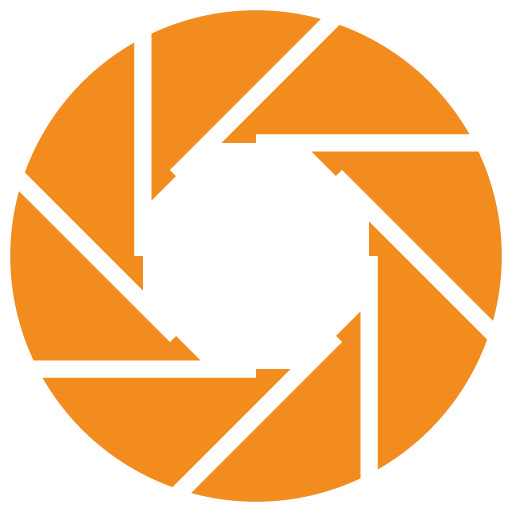
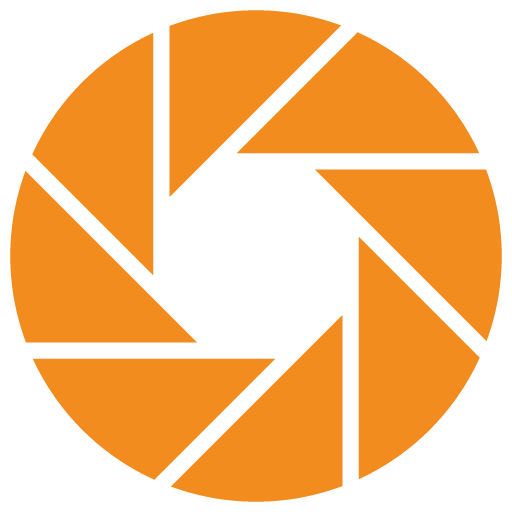
site: the clean aperture mark
The old mark cut each blade with two overlapping triangles under an
even-odd fill, so every overlap punched colour back in. Now an octagon
and eight square-ended cuts under a mask, matching the 1.4.4 video.
Icons and the repo page regenerated from tools/mklogo.py.

Changed region(s): [[0.0312, 0.0312, 0.9688, 0.9688]]

diff --git a/tools/mklogo.py b/tools/mklogo.py
@@ -48,9 +48,11 @@ AMBER = (0xF2, 0x8C, 0x1E)
 DARK = (0x0E, 0x0E, 0x0E)
 
 BLADES = 8
-# Fractions of the disc radius.
-R_IN = 0.46             # the opening: large, and the thing every wrong version shrinks
-SLASH = 0.035           # half-width of the cut between blades
+# Fractions of the disc radius. The opening is a regular octagon whose
+# vertices sit at 20/48 of the radius, which puts its inradius here.
+R_VERT = 20.0 / 48.0
+R_IN = R_VERT * math.cos(math.pi / BLADES)
+SLASH = 1.6 / 48.0      # half-width of the cut between blades
 DEG = 360.0 / BLADES
 
 
@@ -59,14 +61,8 @@ def unit(a):
 
 
 def in_opening(x, y, cx, cy, rin):
-    """True inside the central opening.
-
-    The opening is the polygon bounded by the same tangent lines the cuts run
-    along -- the intersection of seven half-planes -- not a circle. A circular
-    hole leaves a nub where each straight cut meets the curve; the polygon is
-    what gives the blades their sharp points, because each blade's inner edge
-    *is* one of those lines.
-    """
+    """True inside the central opening: the octagon bounded by the same lines
+    the cuts run along, so each blade's inner edge is one of them."""
     for i in range(BLADES):
         ux, uy = unit(math.radians(i * DEG))
         if (x - cx) * ux + (y - cy) * uy > rin:
@@ -74,41 +70,38 @@ def in_opening(x, y, cx, cy, rin):
     return True
 
 
-def in_tri(p, a, b, c):
-    """Point-in-triangle by consistent sign of the three edge cross products."""
-    def side(p1, p2, p3):
-        return (p1[0] - p3[0]) * (p2[1] - p3[1]) - (p2[0] - p3[0]) * (p1[1] - p3[1])
-    d1, d2, d3 = side(p, a, b), side(p, b, c), side(p, c, a)
-    return not (((d1 < 0) or (d2 < 0) or (d3 < 0)) and ((d1 > 0) or (d2 > 0) or (d3 > 0)))
+def vertices(cx, cy, r):
+    rv = r * R_VERT
+    return [(cx + rv * math.cos(math.radians(DEG / 2 + i * DEG)),
+             cy + rv * math.sin(math.radians(DEG / 2 + i * DEG)))
+            for i in range(BLADES)]
 
 
-def slashes(cx, cy, r):
-    """The cuts between blades, as triangle pairs.
+def cuts(cx, cy, r):
+    """The cuts between blades, one per octagon edge.
 
-    Each cut lies along a line **tangent to the central opening**, running from
-    its tangent point out to the rim. That tangency is the whole mark: a cut
-    aimed radially just notches the disc, while a tangent one leaves a blade
-    whose inner edge is a straight chord, which is what makes seven of them
-    read as a spiral. Every earlier attempt here got this wrong.
+    Cut k starts at vertex k, runs along the edge through vertex k+1 and on
+    out past the rim. It starts *at* the vertex with a square end and never
+    behind it -- the first version of this mark ran each cut as two
+    overlapping triangles under an even-odd fill, and every overlap punched
+    the colour back in, which is what made it look messy.
     """
-    tris = []
-    rin = r * R_IN
-    half = r * SLASH
-    reach = math.sqrt(max(0.0, r * r - rin * rin)) * 1.06   # past the rim, so it cuts clean
-    for i in range(BLADES):
-        a = math.radians(i * DEG)
-        ux, uy = unit(a)
-        px, py = cx + rin * ux, cy + rin * uy       # tangent point on the opening
-        tx, ty = -uy, ux                            # tangent direction
-        ex, ey = px + tx * reach, py + ty * reach   # out at the rim
-        # Constant width: offset both ends along the normal, which here is the
-        # radial direction.
-        ox, oy = ux * half, uy * half
-        a0, a1 = (px + ox, py + oy), (px - ox, py - oy)
-        b0, b1 = (ex + ox, ey + oy), (ex - ox, ey - oy)
-        tris.append((a0, a1, b1))
-        tris.append((a0, b1, b0))
-    return tris
+    v = vertices(cx, cy, r)
+    out = []
+    for k in range(BLADES):
+        a, b = v[k], v[(k + 1) % BLADES]
+        dx, dy = b[0] - a[0], b[1] - a[1]
+        n = math.hypot(dx, dy)
+        out.append((a, (dx / n, dy / n)))
+    return out
+
+
+def in_cut(x, y, cs, half):
+    for (ax, ay), (dx, dy) in cs:
+        t = (x - ax) * dx + (y - ay) * dy
+        if t >= 0 and abs((x - ax) * dy - (y - ay) * dx) < half:
+            return True
+    return False
 
 
 def render(size, bg=None, ss=4):
@@ -116,7 +109,8 @@ def render(size, bg=None, ss=4):
     cx = cy = size / 2.0
     r = size / 2.0 * 0.96
     rin = r * R_IN
-    tris = slashes(cx, cy, r)
+    cs = cuts(cx, cy, r)
+    half = r * SLASH
     px = bytearray(size * size * 4)
     inv = 1.0 / (ss * ss)
 
@@ -131,7 +125,7 @@ def render(size, bg=None, ss=4):
                         continue
                     if in_opening(x, y, cx, cy, rin):
                         continue
-                    if any(in_tri((x, y), *t) for t in tris):
+                    if in_cut(x, y, cs, half):
                         continue
                     hits += 1
             i = (py_ * size + px_) * 4
@@ -167,28 +161,25 @@ def png(path, w, h, rgba):
 
 
 def svg():
-    """The same construction as vectors: outer disc, then the opening and the
-    seven cuts punched through it with fill-rule evenodd."""
+    """The same construction as vectors: a disc under a mask that punches out
+    the octagon and the eight cuts. A mask rather than an even-odd path,
+    because an even-odd path fills wherever two cuts overlap."""
     cx = cy = 50.0
     r = 48.0
-    rin = r * R_IN
-    d = [f"M {cx - r},{cy} a {r},{r} 0 1,0 {2 * r},0 a {r},{r} 0 1,0 {-2 * r},0"]
-    # Vertices of the opening: where consecutive tangent lines meet. For a
-    # regular polygon of inradius rin that is circumradius rin/cos(pi/n).
-    circ = rin / math.cos(math.pi / BLADES)
-    pts = []
-    for i in range(BLADES):
-        a = math.radians(i * DEG + DEG / 2)
-        pts.append(f"{cx + circ * math.cos(a):.2f},{cy + circ * math.sin(a):.2f}")
-    d.append("M " + " L ".join(pts) + " Z")
-    for t_ in slashes(cx, cy, r):
-        d.append("M {} L {} L {} Z".format(
-            *[f"{x:.2f},{y:.2f}" for x, y in t_]))
+    v = vertices(cx, cy, r)
+    poly = " ".join(f"{x:.2f},{y:.2f}" for x, y in v)
+    lines = []
+    for (ax, ay), (dx, dy) in cuts(cx, cy, r):
+        lines.append(f'<line x1="{ax:.2f}" y1="{ay:.2f}" '
+                     f'x2="{ax + dx * 80:.2f}" y2="{ay + dy * 80:.2f}"/>')
+    fill = f"#{AMBER[0]:02X}{AMBER[1]:02X}{AMBER[2]:02X}"
     return ('<svg xmlns="http://www.w3.org/2000/svg" viewBox="0 0 100 100" '
             'role="img" aria-label="GLaDOS aperture mark">'
-            f'<path d="{" ".join(d)}" '
-            f'fill="#{AMBER[0]:02X}{AMBER[1]:02X}{AMBER[2]:02X}" '
-            'fill-rule="evenodd"/></svg>')
+            '<defs><mask id="m"><rect width="100" height="100" fill="#fff"/>'
+            f'<polygon points="{poly}" fill="#000"/>'
+            f'<g stroke="#000" stroke-width="{2 * r * SLASH:.1f}" stroke-linecap="butt">'
+            + "".join(lines) + '</g></mask></defs>'
+            f'<circle cx="{cx:g}" cy="{cy:g}" r="{r:g}" fill="{fill}" mask="url(#m)"/></svg>')
 
 
 def social(w, h, out):
